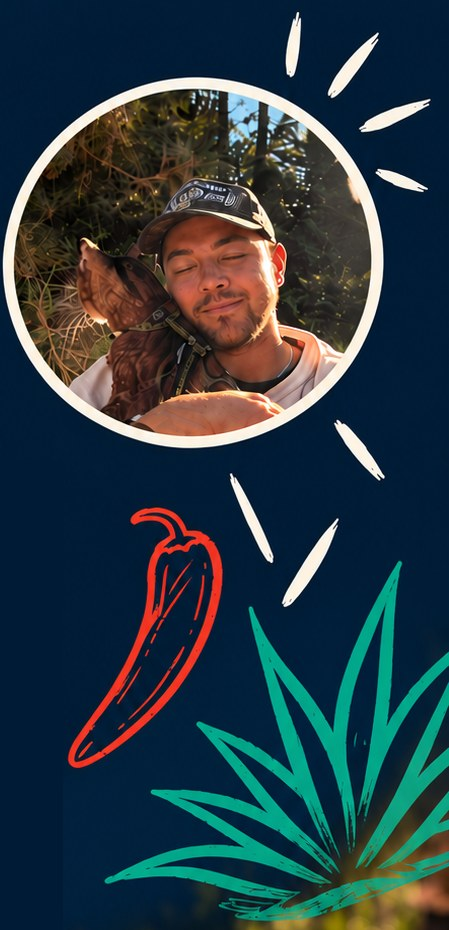
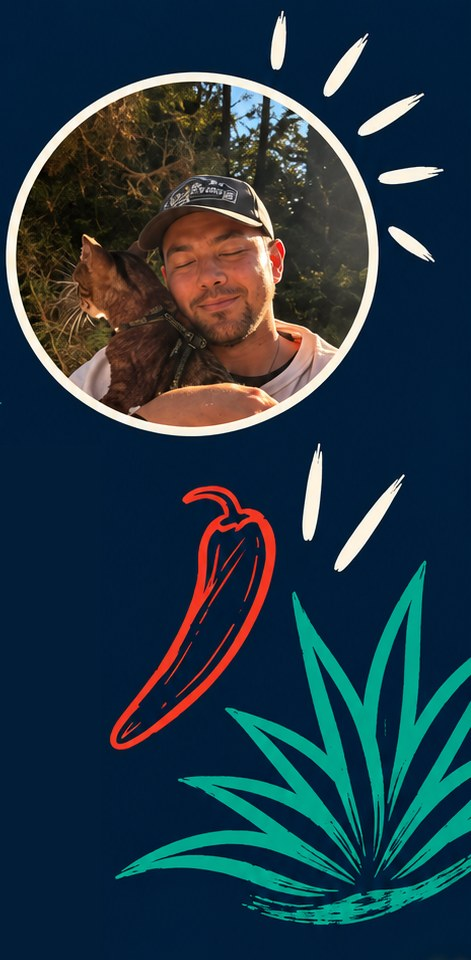
Story: new photo with cat, centered Order now button
Claude-Session: https://claude.ai/code/session_01QHWeXvCpTkDrMp4guwrLte

diff --git a/app/story/page.tsx b/app/story/page.tsx
@@ -5,15 +5,15 @@ export const metadata = { title: "My story · Backyard Cocina" };
 export default function Story() {
   return (
     <section className="mystory">
-      <img className="ms-side" src="/story-side.jpg" alt="Brant Fedor hugging his dog" />
+      <img className="ms-side" src="/story-side.jpg" alt="Brant Fedor hugging his cat" />
       <div className="ms-text">
         <p className="ms-eyebrow">MY STORY</p>
         <h1>I&rsquo;m Brant Fedor, from LA.</h1>
         <p>The flavors, the people, the traditions and the way food brings everyone together have always been part of who I am.</p>
         <p>I started making salsas in my backyard for friends and family, and they kept telling me the same thing: <b>my flavor is unique.</b></p>
         <p>Now I&rsquo;m sharing that flavor with more people — authentic Mexican salsas, made with traditional ingredients, fresh produce and my own touch.</p>
-        <Link className="ms-btn" href="/shop">ORDER NOW <span aria-hidden="true">→</span></Link>
       </div>
+      <Link className="ms-btn" href="/shop">ORDER NOW <span aria-hidden="true">→</span></Link>
       <img className="ms-table" src="/story-table.jpg" alt="" />
     </section>
   );

diff --git a/app/globals.css b/app/globals.css
@@ -154,3 +154,6 @@ a.chip{text-decoration:none}
 .atab{flex:none;padding:10px 12px}
 .dayrow{display:grid;grid-template-columns:76px 1fr;gap:8px;align-items:center}.dayrow input:not([type=checkbox]){margin:0}
 .track{display:grid;gap:10px;margin:16px 0}.track li{list-style:none;display:flex;gap:10px;align-items:center;opacity:.45}.track li.on{opacity:1}.track li i{width:28px;height:28px;border-radius:50%;display:grid;place-items:center;background:var(--deep);font-style:normal}.track li.on i{background:var(--green)}
+.ms-side{width:50%}
+.ms-btn{display:flex;width:fit-content;margin:10px auto 0;padding:14px 40px}
+.ms-btn{position:relative;z-index:1;white-space:nowrap}
